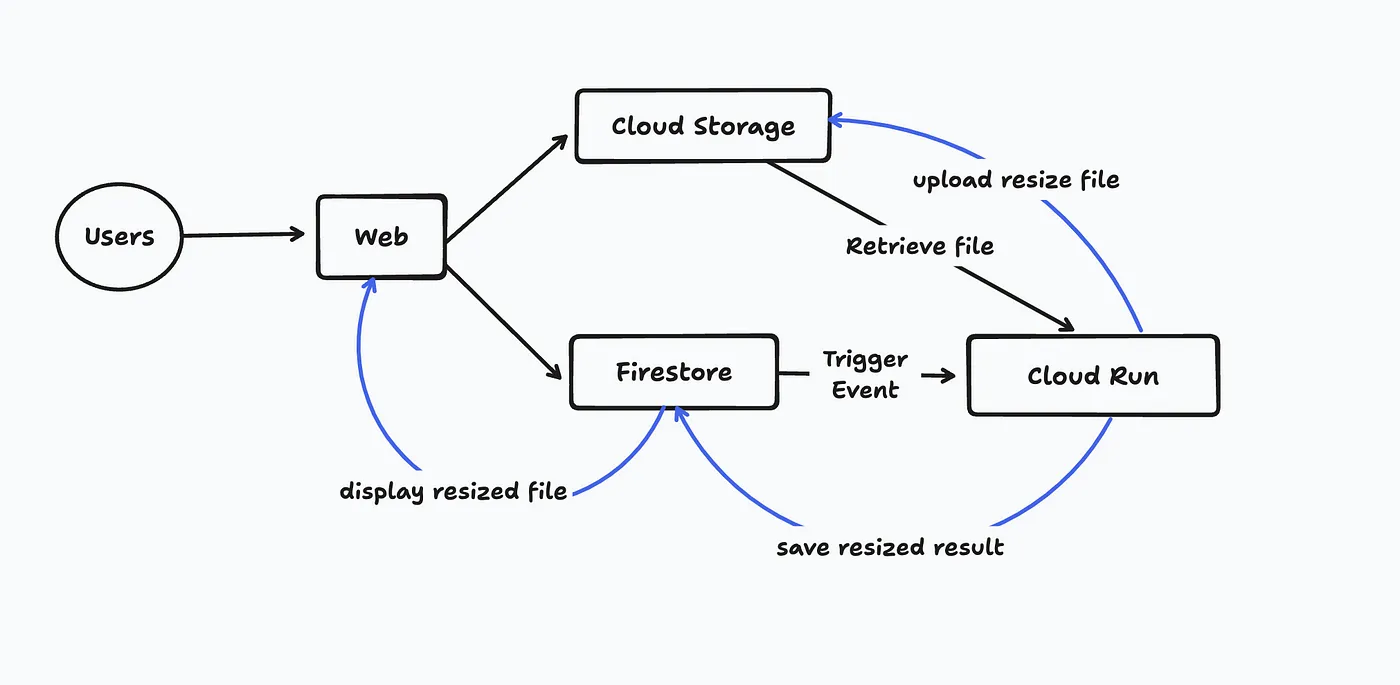
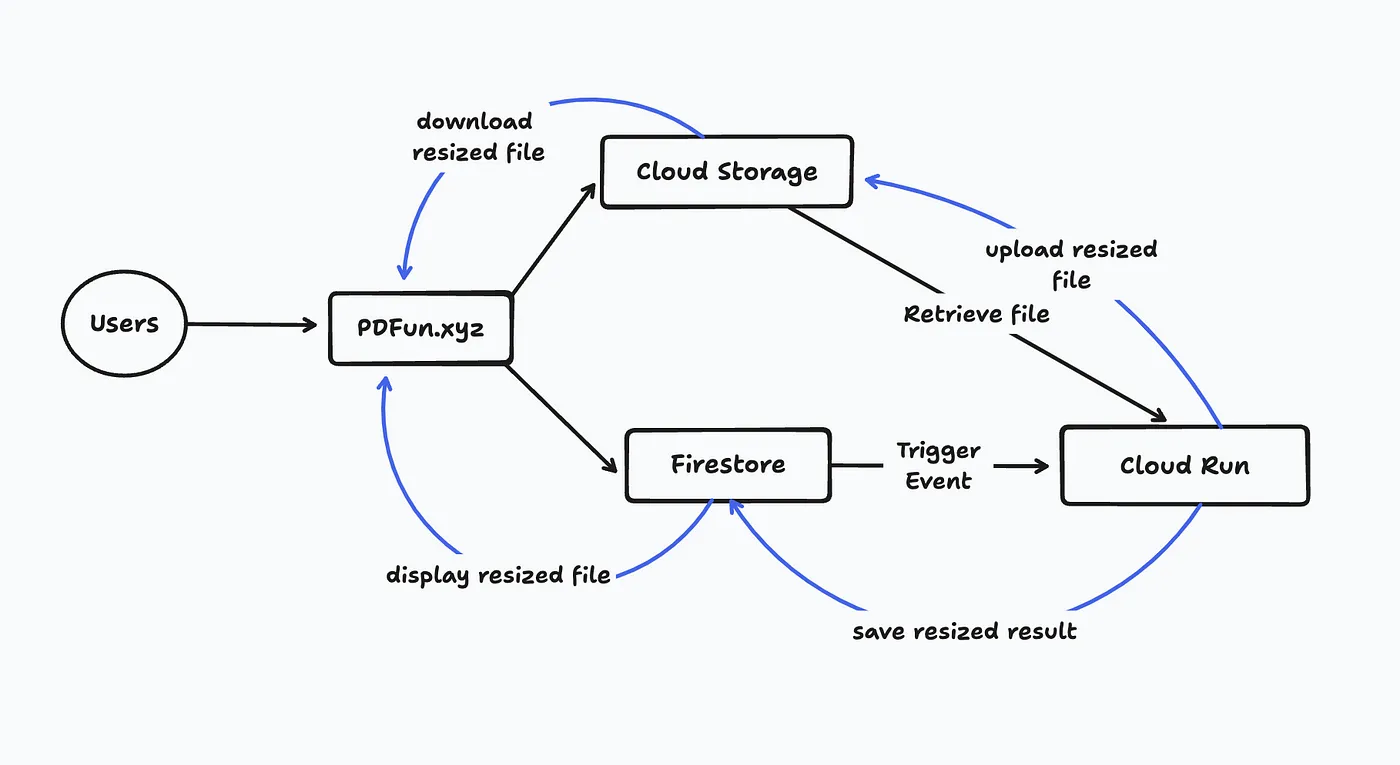
feat(blog): add ordered list styles and new article on handling long processing tasks

diff --git a/apps/blog-app/src/styles.css b/apps/blog-app/src/styles.css
@@ -75,6 +75,11 @@ img:not([width]):not([height]) {
     list-style-type: disc;
     margin-left: 1rem;
   }
+
+  ol {
+    list-style-type: decimal;
+    margin-left: 1rem;
+  }
 }
 
 figure {

diff --git a/apps/blog-app/src/content/2024-07-06-building-open-source-pdf-services-with-angular-and-gcp-handling-long-processing-tasks.md b/apps/blog-app/src/content/2024-07-06-building-open-source-pdf-services-with-angular-and-gcp-handling-long-processing-tasks.md
@@ -1,0 +1,186 @@
+---
+title: Building PDF Open Source Services with Angular & GCP — Handling long processing tasks
+slug: 2024-07-06-building-open-source-pdf-services-with-angular-and-gcp-handling-long-processing-tasks
+description: Welcome to the first part of the journey in building open source PDF service using Angular (Analogjs), Firestore, Cloud Storage, and CloudRun. This project serves as a platform for sharing my knowledge, continually learning best practices, and simultaneously contributing to the community.
+categories: ['angular', 'tutorial', 'gcp']
+coverImage: assets/images/blog/angular-pdf-service.webp
+profileImage: assets/images/dale-nguyen-avatar.webp
+published: 2024-07-06T15:17:31.359Z
+author: Dale Nguyen
+---
+
+<figure>
+  <img src="assets/images/blog/angular-pdf-service.webp" alt="PDFun — Open Source PDF Services" width="100%" height="auto" style="aspect-ratio: 16/9;" />
+  <figcaption>PDFun — Open Source PDF Services</figcaption>
+</figure>
+
+Welcome to the first part of the journey in building open source PDF service using Angular (Analogjs), Firestore, Cloud Storage, and CloudRun. This project serves as a platform for sharing my knowledge, continually learning best practices, and simultaneously contributing to the community.
+
+- Part 1: [Architecture Overview](blog/2024-06-03-building-open-source-pdf-services-with-angular-and-gcp-architecture-overview)
+- Part 2: [Deploy services to Cloud Run](blog/2024-06-08-building-open-source-pdf-services-with-angular-and-gcp-deploy-services-to-cloud-run)
+- Part 3: **[Handling long processing tasks](blog/2024-07-06-building-open-source-pdf-services-with-angular-and-gcp-handling-long-processing-tasks)**
+- Part 4: [PDF AI Chat]()
+
+Demo: <https://pdfun.xyz>
+
+GitHub - [dalenguyen/pdfun](https://github.com/dalenguyen/pdfun)
+
+The solution is built around GCP ecosystem, it’s better to deploy the project on GCP, so it can access their services. There are two parts of the solution:
+
+- Web UI (Analogjs — Angular): handle user interaction
+- Backend (Node — Express): process PDF files
+
+Building PDF services involves uploading, downloading, and processing PDF files, which can take significant time. This article will explore methods for handling these long processing tasks efficiently.
+
+## Normal API Requests and Their Pitfalls
+
+Typically, when a client makes an API request, the server processes the request and sends back a response. This synchronous approach works well for short tasks. However, it has its pitfalls when it comes to long processing tasks.
+
+The main issue is that the client has to wait for the server to complete the task before it can receive a response. This can lead to a poor user experience, especially if the task takes a long time to complete.
+
+Additionally, most browsers and client-side libraries have a timeout limit for API requests. If the server doesn’t respond within this limit, the request is automatically cancelled.
+
+## Maximum Timeout from the Client Side
+
+The maximum timeout for an API request varies depending on the client-side library or browser. For instance, the default timeout in Angular’s HttpClient is 0, which means it waits indefinitely for a response. However, [browsers like Chrome](https://source.chromium.org/chromium/chromium/src/+/main:net/socket/client_socket_pool.cc;l=41) and Firefox have a maximum timeout of around 300 seconds (5 minutes). If the server doesn’t respond within this timeframe, the request is terminated.
+
+## Common Methods to Handle Long Requests from Client Side
+
+There are several methods to handle long requests from the client side:
+
+1. Polling: The client makes a request to the server and then periodically sends follow-up requests to check if the task is complete.
+2. Long Polling: The client makes a request to the server, which holds the request open until the task is complete or a timeout occurs.
+3. WebSockets: A persistent, two-way communication channel is established between the client and server, allowing the server to send a response when the task is complete.
+4. Server-Sent Events: The server sends updates to the client over a single, long-lived connection.
+
+While these methods can be effective, they also have their drawbacks, such as increased complexity and potential for resource inefficiency.
+
+### Example of Polling
+
+Here is an example of implementing polling in Angular.
+
+```typescript
+// polling.component.ts
+
+INTERVAL = 2000 // 2 seconds
+data = signal({})
+
+timer(0, this.INTERVAL)
+  .pipe(
+    // stop the API request
+    takeUntil(this.stopTimer$),
+    delay(1000),
+    // function to get data from the server
+    switchMap(() => this.getData()),
+    // retry if error happened
+    retry(),
+  )
+  .subscribe({
+    next: (res: any) => {
+      if (res.status === 'SUCCEED') {
+        this.stopTimer$.next(true)
+      }
+      this.data.set(res)
+    },
+    error: (error: Error) => {
+      this.errorMessage.set(error.message)
+    },
+  })
+```
+
+The function utilize timer operator from rxjs to run an interval (2s) to retrieve data from the server by using getData(). It can be stopped by emitting the stopTimer$ when the component is destroyed or the desired data is retrieved.
+
+### Example of SSE (Server-sent events)
+
+Here is an example of implementing SSE from the server:
+
+```typescript
+// server (Analogjs - Nitro server)
+
+export default defineEventHandler(async (event) => {
+  const eventStream = createEventStream(event)
+
+  const interval = setInterval(async () => {
+    await eventStream.push(`Message @ ${new Date().toLocaleTimeString()}`)
+  }, 1000)
+
+  eventStream.onClosed(async () => {
+    clearInterval(interval)
+    await eventStream.close()
+  })
+
+  return eventStream.send()
+})
+```
+
+We utilizing createEventStream to create a stream and set an interval (1s) as example to stream string data from server to the client.
+
+Let’s have a look at the client implementation:
+
+```typescript
+constructor() {
+  // using afterNextRender to make sure the code is running from the browser
+  afterNextRender(() => {
+  this.eventSource = new EventSource('/api/v1/sse');
+
+      this.eventSource.onmessage = (event) => {
+        this.data.set(event.data);
+      };
+
+  });
+}
+
+ngOnDestroy() {
+  this.eventSource?.close();
+}
+```
+
+We create an event source using EventSource that points to our server. After that, we can listen to data from the server by using this.eventSource.onmessage callback method.
+
+## Utilizing GCP Cloud Run and Firestore to Handle Long Requests
+
+Google Cloud Platform (GCP) offers powerful tools to handle long processing tasks. Specifically, we can leverage Cloud Run and Firestore.
+
+Here’s the architecture flow for the PDF resize service:
+
+<figure>
+  <img src="assets/images/blog/pdf-resize-architecture-overview.webp" alt="PDF resize service architecture" width="100%" height="auto" style="aspect-ratio: 16/9;" />
+  <figcaption>PDF resize service architecture</figcaption>
+</figure>
+
+You read the [first article](blog/2024-06-03-building-open-source-pdf-services-with-angular-and-gcp-architecture-overview) to understand more about this PDF resize service.
+
+By utilizing Firestore, we don’t have implement polling or server-sent events ourself which is much more convenient. This is the beauty of Backend as service 😉.
+
+From the frontend, we can observe data changes from the Firestore and allow user to download resized file when it’s ready. Let’s have a look at the example code:
+
+```typescript
+// the code is simplified for better understand.
+
+docRef = doc(this.firestore, `${this.generateFilePath()}/${this.currentID()}`)
+
+pdf = computed(() => {
+  // return an observable of data
+  return docData(this.docRef()) as Observable<UploadedFile>
+})
+
+downloadUrl$ = this.pdf().pipe(
+  // only get data with taskReponse object
+  filter((doc) => Object.keys(doc?.taskResponse ?? {}).length > 0),
+  switchMap((doc) => {
+    // handling & validate response data
+
+    return this.getDownloadLink(`${doc.filePath}/${doc.taskResponse?.fileName}`)
+  }),
+)
+```
+
+All we need to do is to create a listener from our frontend code, and the server will send the data back to us when it’s ready! You can test it out at https://pdfun.xyz.
+
+In conclusion, handling long processing tasks in web development can be challenging, but with the right tools and strategies, it’s definitely manageable. By leveraging the power of Angular and GCP, we can build robust PDF open source services that handle long processing tasks effectively and efficiently.
+
+## Questions?
+
+If you have any questions or run into any issues, please don’t hesitate to [create an issue](https://github.com/dalenguyen/pdfun/issues) on our GitHub repository. Alternatively, you can chat with me. I’m here to help and would love to hear your feedback.
+
+Stay tuned for the next part. Until then, happy coding!